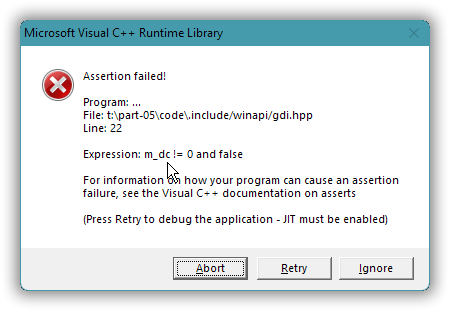
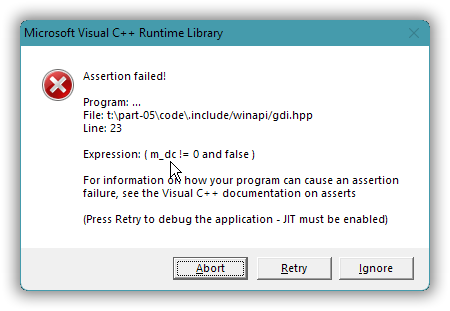
-

Changed region(s): [[0.3111, 0.463, 0.5911, 0.6077], [0.2489, 0.4051, 0.28, 0.4341]]

diff --git a/docs/part-05/code/.include/winapi/gdi.hpp b/docs/part-05/code/.include/winapi/gdi.hpp
@@ -20,7 +20,7 @@ namespace winapi::gdi {
             m_window( window ),
             m_dc( ::GetDC( window ) )
         {
-            assert( m_dc != 0 and false );
+            assert(( m_dc != 0 and false ));
         }
         
         auto handle() const -> HDC { return m_dc; }

diff --git a/docs/part-05.md b/docs/part-05.md
@@ -160,7 +160,7 @@ namespace winapi::gdi {
             m_window( window ),
             m_dc( ::GetDC( window ) )
         {
-            assert( m_dc != 0 );
+            assert(( m_dc != 0 ));
         }
         
         auto handle() const -> HDC { return m_dc; }
@@ -252,13 +252,13 @@ However, from a C++ RAII automation point of view `SaveDC`+`RestoreDC` are sligh
 To be sure that the `assert` statements really do their job you can intentionally trigger an assert, make it “fire”, e.g. by changing
 
 ~~~cpp
-    assert( m_dc != 0 );
+    assert(( m_dc != 0 ));
 ~~~
 
 … to
 
 ~~~cpp
-    assert( m_dc != 0 and false );
+    assert(( m_dc != 0 and false ));
 ~~~
 
 With a MinGW g++ console subsystem build this works fine; in that the assertion text is reported in the console:
@@ -269,10 +269,10 @@ With a MinGW g++ console subsystem build this works fine; in that the assertion 
 
 [T:\part-05\code\on-screen-graphics\v2\.build]
 > a
-Assertion failed: m_dc != 0 and false, file t:\part-05\code\.include/winapi/gdi.hpp, line 22
+Assertion failed: ( m_dc != 0 and false ), file t:\part-05\code\.include/winapi/gdi.hpp, line 23
 ~~~
 
-With a MinGW g++ GUI subsystem build it also works fine, producing an assertion failure box:
+With a MinGW g++ GUI subsystem build it also works fine, producing an **assertion failure box**:
 
 ~~~txt
 [T:\part-05\code\on-screen-graphics\v2\.build]
@@ -293,10 +293,10 @@ main.cpp
 
 [T:\part-05\code\on-screen-graphics\v2\.build]
 > b
-Assertion failed: m_dc != 0 and false, file t:\part-05\code\.include\winapi/gdi.hpp, line 22
+Assertion failed: ( m_dc != 0 and false ), file t:\part-05\code\.include\winapi/gdi.hpp, line 23
 ~~~
 
-But with a Visual C++ GUI subsystem build the assertion message is not reported in any way. Indeed there’s ***nothing to tell you that an assertion fired***. All you can see is that the program, mysteriously, fails to have any effect:
+But with a Visual C++ GUI subsystem build the assertion message is not reported in any way. Indeed there’s ***nothing to tell you that an assertion fired***. All you can see is that the program mysteriously fails to have any effect:
 
 ~~~txt
 [T:\part-05\code\on-screen-graphics\v2\.build]
@@ -325,17 +325,17 @@ The *technical* reason is that Microsoft’s runtime library decides how to pres
 
 From a design level perspective, if the intent was to support the programmer, then a decision to base the presentation mode on the executable’s subsystem is sub-optimal. For example, a GUI subsystem program may be running with its standard error stream tied to a console, so that presentation as text output is desirable. And in most cases it supports the programmer best to have both presentation modes, both text output (that can be logged) and an assertion failure box (that can be viewed when the assertion failure happens); a restriction of the presentation to a single mode very seldom has any advantage.
 
-**\<rant\>** Then, a decision to *assume* the subsystem from the entry point, instead of checking the subsystem, is a bit of lunacy. But perhaps the intent was not to support but instead to add yet another vendor lock in, and after all, this is tied to the `WinMain` monstrosity, which itself was a vendor lock in device. Microsoft got infamous for its vendor lock in business tactics when some [internal mails were revealed](https://www.cnet.com/tech/services-and-software/eu-report-takes-microsoft-to-task/) in the legal dispute between Microsoft and Sun Corporation. **\</rant\>**
+**\<rant\>** Then, a decision to *infer* the subsystem from the entry point, instead of checking the subsystem, is a bit of lunacy. But perhaps the intent was not to support but instead to add yet another vendor lock in, and after all, this is tied to the `WinMain` monstrosity, which itself was a vendor lock in device. Microsoft got infamous for its vendor lock in business tactics when some [internal mails were revealed](https://www.cnet.com/tech/services-and-software/eu-report-takes-microsoft-to-task/) in the legal dispute between Microsoft and Sun Corporation. **\</rant\>**
 
 Anyway, the assertion message wasn’t actually suppressed: it was just erroneously presented as text output on the program’s standard error stream, that wasn’t connected to anything. So a simple fix is to connect that error stream to the console. To do that in Cmd, simply redirecting the standard error stream via `2>con` doesn’t work, but fusing it into the standard output stream via `2>&1` and then piping the output to e.g. `find /v ""`, works nicely:
 
-~~~cpp
+~~~txt
 [T:\part-05\code\on-screen-graphics\v2\.build]
 > b 2>&1 | find /v ""
-Assertion failed: m_dc != 0 and false, file t:\part-05\code\.include\winapi/gdi.hpp, line 22
+Assertion failed: ( m_dc != 0 and false ), file t:\part-05\code\.include\winapi/gdi.hpp, line 23
 ~~~
 
-It would of course be much better if the program itself chose a more reasonable practically useful presentation mode. For example, depending on whether its standard error stream is connected to something (as it is with the above command), or not. Doing this involves ***lying*** to the Microsoft runtime about the executable’s subsystem, but happily that Just Works&trade; with as of Visual C++ 2022 no ill effects:
+It would of course be much better if the program itself chose a more reasonable practically useful presentation mode. For example, depending on whether its standard error stream is connected to something, as it is with the above command, or not. Doing this involves ***lying*** to the Microsoft runtime about the executable’s subsystem (like with a sabotage-minded donkey that always goes in the opposite direction of where you indicate you want to go, so you just lie to it), but happily that Just Works&trade; with as of Visual C++ 2022 no ill effects:
 
 [*part-05/code/.include/compiler/msvc/Assertion_reporting_fix.hpp*](part-05/code/.include/compiler/msvc/Assertion_reporting_fix.hpp)
 ~~~cpp
